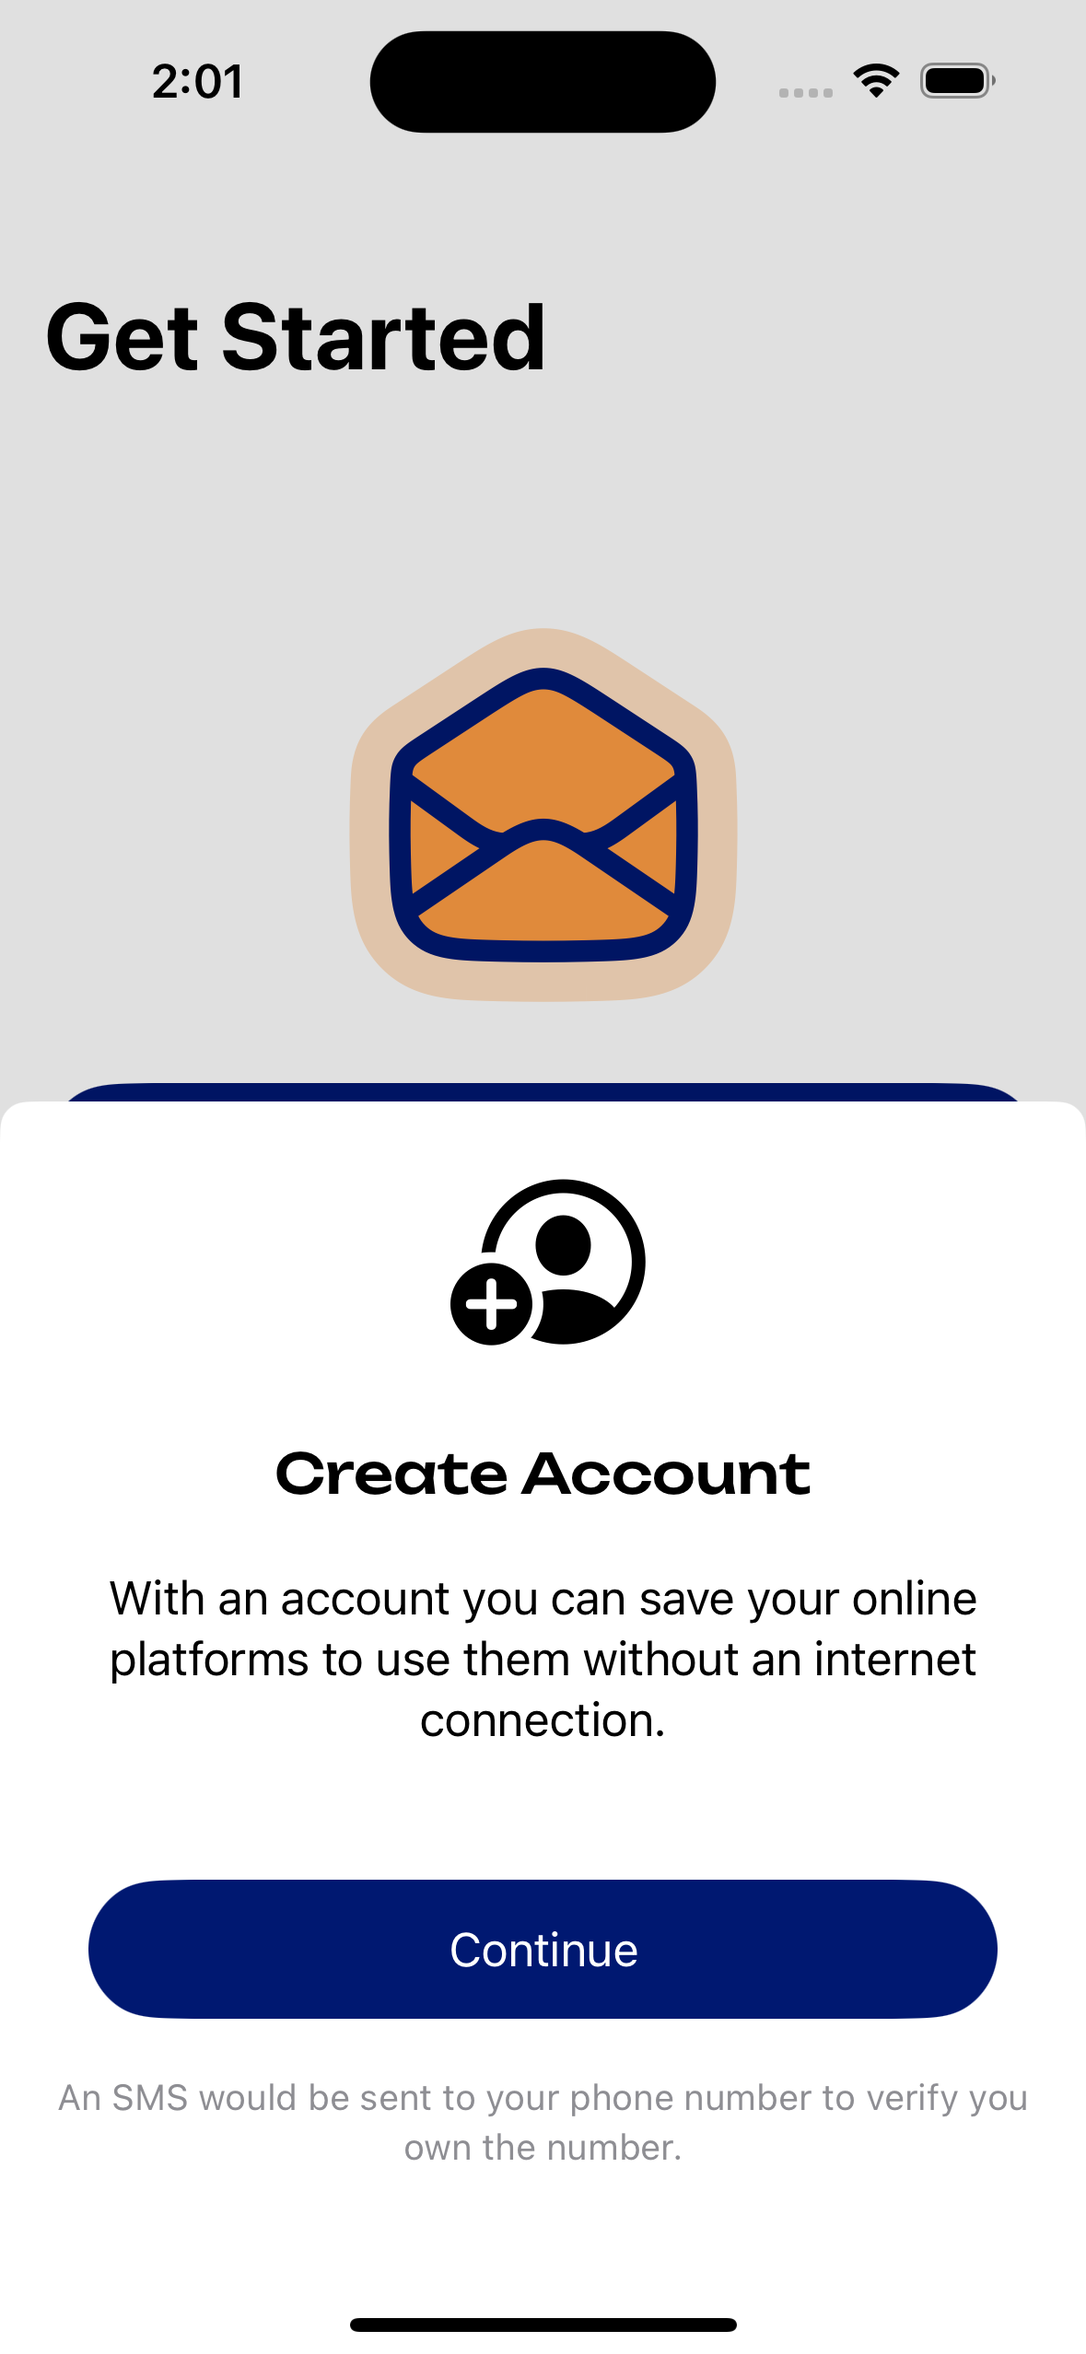
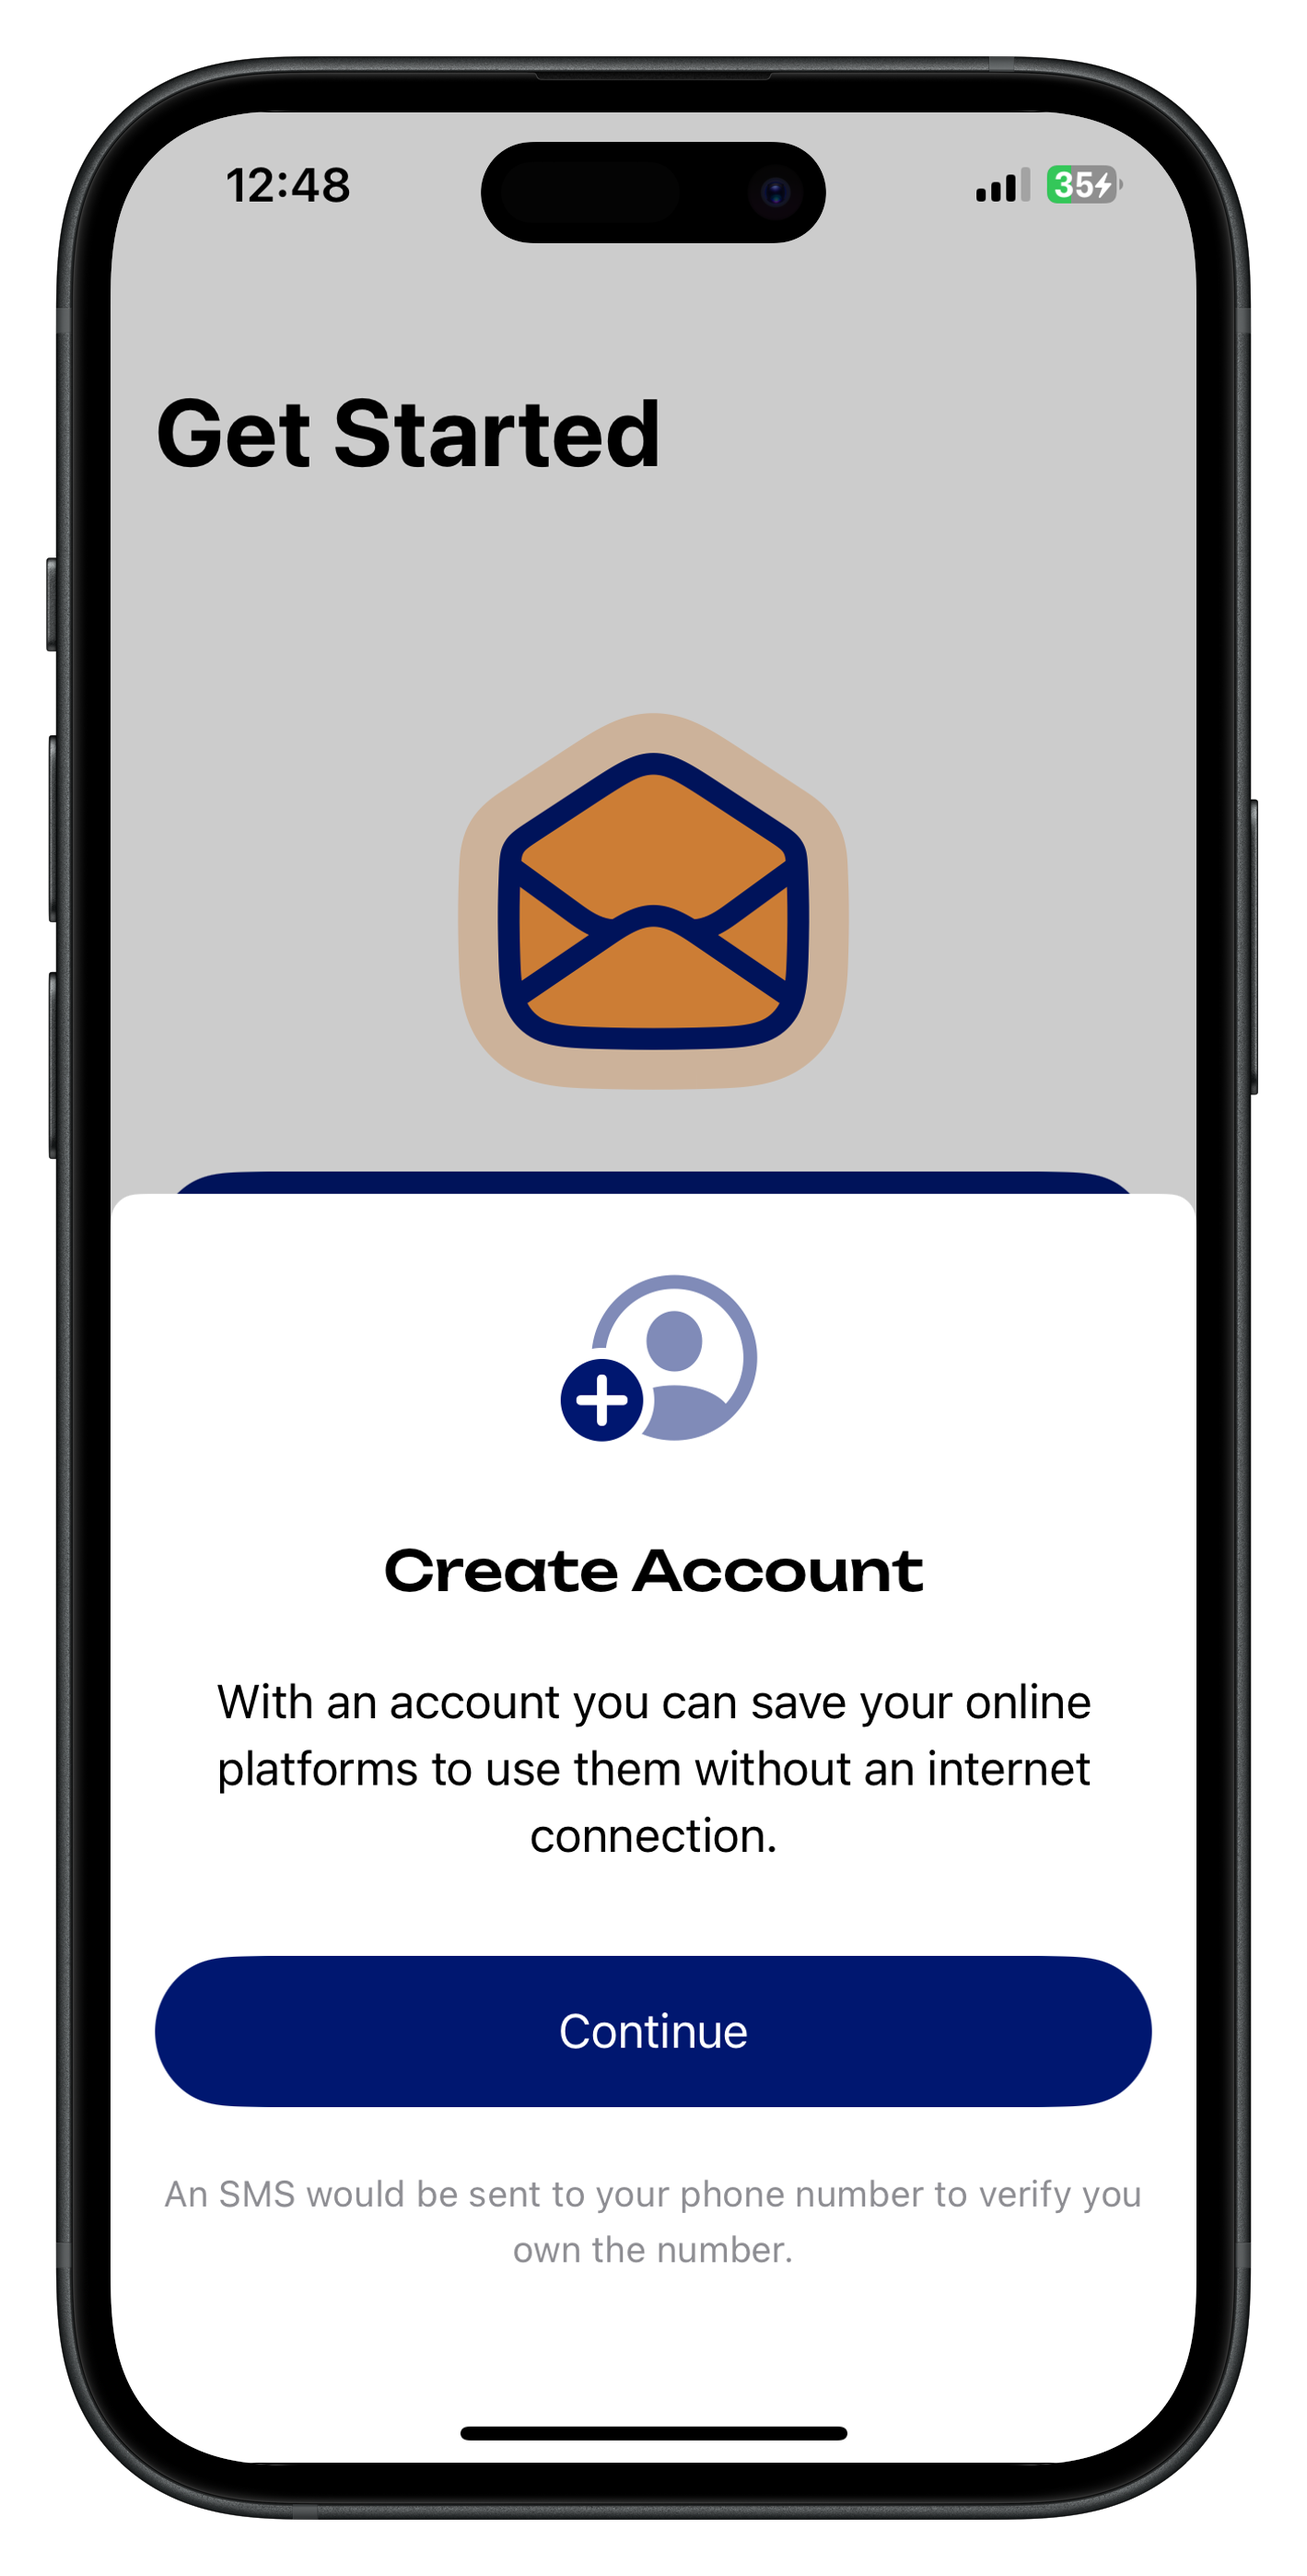
updated images to ios

diff --git a/docs/iOS Tutorial/Getting-Started-With-iOS.md b/docs/iOS Tutorial/Getting-Started-With-iOS.md
@@ -12,17 +12,16 @@ RelaySMS enables users to stay connected to their online platforms even when the
 
 
 #### Step 1: Download the App
-
-![App Store](/img/ios2.jpeg)
+<img src="/NewiOS/playstore.png" alt="GatewayAvailable" class="resized-image"/>
 
 - Download RelaySMS from the [App Store](https://apps.apple.com/us/app/relaysms/id6630382970)
 - Alternatively, you can access it on [GitHub](https://github.com/smswithoutborders/SMSwithoutBorders-Android)
+
 - **Technical Requirements:**
     - SMS-capable iPhone
     - iOS-compatible version
 
-
-There are two ways to communicate using  the app during an internet shutdown;  
+There are two ways to communicate using the app during an internet shutdown;
 
 **A.** By using your default RelaySMS account(bridges), where u can send an email without the need to sign up or save platforms
 
@@ -37,20 +36,22 @@ There are two ways to communicate using  the app during an internet shutdown;
 
 
 **Step 1: Click the "compose new message" Button**
-<img src="/Android/pick.png" alt="sign_in" class="resized-image"/>
+
+<img src="/NewiOS/click-compose.png" alt="compose" class="resized-image"/>
 
 
 **Step 2. Compose a Message**
 
-- Fill in the required fields (e.g. recipient’s email for Gmail, Click Send and RelaySMS will redirect you to the SMS app.)
-<img src="/Android/bridges.png" alt="GatewayAvailable" class="resized-image"/>
+- Fill in the required fields (e.g., recipient’s email for Gmail). Click Send, and RelaySMS will redirect you to the SMS app.
+
+<img src="/NewiOS/bridgecomposed.png" alt="sign_in" class="resized-image"/>
 
 **Step 3: Sending Messages via SMS**
 
-After composing your message, confirm and send it through your phone’s SMS service. The recipient will receive the message as if it were sent directly from the online platform.
+After composing your message, confirm and send it through your phone’s SMS app. The recipient will receive the message as from your RelaySMS email alias created with your phone number, e.g., 123456@relaysms.me 
 
-<img src="/Android/defualtMessage.png" alt="GatewayAvailable" class="resized-image"/>
-<img src="/Android/notifi.png" alt="notifi" class="resized-image"/>
+<img src="/NewiOS/bridgeEmail.png" alt="sign_in" class="resized-image"/>
+<img src="/NewiOS/bridgeMessage.png" alt="sign_in" class="resized-image"/>
 
 **Step 4: Receiving Replies**
 
@@ -59,13 +60,17 @@ After composing your message, confirm and send it through your phone’s SMS ser
 - Tap **"Decrypt"** to reveal the message.
 
 
-<img src="/Android/inbox.png" alt="GatewayAvailable" class="resized-image"/>
-<img src="/Android/decryption.png" alt="GatewayAvailable" class="resized-image"/>
+<img src="/NewiOS/inbox.png" alt="GatewayAvailable" class="resized-image"/>
+<img src="/NewiOS/decrypte.png" alt="GatewayAvailable" class="resized-image"/>
 
-<img src="/Android/decryptMessage.png" alt="GatewayAvailable" class="resized-image"/>
-<img src="/Android/Indox.png" alt="GatewayAvailable" class="resized-image"/>
+<img src="/NewiOS/decryptemessaging.png" alt="GatewayAvailable" class="resized-image"/>
+<img src="/NewiOS/decryptmessage.png" alt="GatewayAvailable" class="resized-image"/>
 
 ### B. Communicating Using Saved Platforms 
+
+**Step 1: Onboarding Screens**
+
+<img src="/NewiOS/Login-signup.png" alt="GatewayAvailable" class="resized-image"/>
 
 **Step 2: Sign Up for an Account**
 
@@ -73,59 +78,87 @@ After composing your message, confirm and send it through your phone’s SMS ser
 2. Enter the required information and proceed.
 3. An authentication PIN will be sent to your phone via SMS.
 
-**Onboarding Screens**
-
-<img src="/Android/gettingstarted.png" alt="onbording1" class="resized-image"/>
-<img src="/Android/pick.png" alt="sign_in" class="resized-image"/>
-<img src="/Android/createaccount.png" alt="sign_in2" class="resized-image"/>
+<img src="/NewiOS/Create-Account.png" alt="GatewayAvailable" class="resized-image"/>
+<img src="/NewiOS/createaccount.png" alt="GatewayAvailable" class="resized-image"/>
 
 **Step 3: Verify Your Phone Number**
-
 - Enter the verification code sent via SMS to complete your account setup.
 
-<img src="/Android/verificationcode.png" alt="verificationcode" class="resized-image"/>
+<img src="/NewiOS/verificationcode.png" alt="GatewayAvailable" class="resized-image"/>
+
 **Step 4: Log In**
 
 - If you already have an account, tap **Log In.**
 - Enter your registered phone number and password.
 - Enter the verification code received via SMS.
 
-<img src="/Android/pick.png" alt="sign_in" class="resized-image" />
-<img src="/Android/login.png" alt="login1" class="resized-image" />
-<img src="/Android/login1.png" alt="sign_in1" class="resized-image" />
-<img src="/Android/verificationcode.png" alt="verificationcode" class="resized-image"/>
+<img src="/NewiOS/sendnewmassage.png" alt="GatewayAvailable" class="resized-image"/>
 
-**Saving Platforms for Offline Messaging**
+**step 5: Saving Platforms for Offline Messaging**
 
 1. **Log in** to RelaySMS.
 2. Tap **Save Accounts** to view the list of available platforms.
 3. Select the platforms you wish to save.
 4. Ensure the platform you want to save is installed on your phone.
 
-<img src="/Android/GatewayNumber(1).png" alt="add-message" class="resized-image"/>
-<img src="/Android/addPlateform.png" alt="add-message" class="resized-image"/>
+<img src="/NewiOS/login.png" alt="add-message" class="resized-image"/>
+<img src="/NewiOS/login1.png" alt="add-message" class="resized-image"/>
+<img src="/NewiOS/verificationcode.png" alt="GatewayAvailable" class="resized-image"/>
+
+**Step 6: Choose a Gateway Client**
+
+
+a. Tap the Country tab.
+
+b. Pick a number and tap Make Default.
+
+c. You can even add your own gateway client here by tapping Add Number.
+d. Alternatively, you can select a gateway client from the list that pops up when you hit the send button after composing your message.
+
+#### 6. Send a message:
+
+- a. On the **Recent** page, tap the **Compose icon**.
+
+<img src="/NewiOS/verificationcode.png" alt="GatewayAvailable" class="resized-image"/>
+<img src="/NewiOS/recent.png" alt="GatewayAvailable" class="resized-image"/>
+<img src="/NewiOS/plateform.png" alt="GatewayAvailable" class="resized-image"/>
+
+- b. Pick a saved platform, write your message, and tap **Send**.
+
+<img src="/NewiOS/gateway.png" alt="GatewayAvailable" class="resized-image"/>
+
+- c. Confirm the gateway client, and that's it.(if the RelaySMS app is set as your default messaging app)
+
+<img src="/NewiOS/notification.png" alt="GatewayAvailable" class="resized-image"/>
+
+**NB:** If the RelaySMS app is not set as your default message app, you will be prompted to choose a default messaging app to send your message.
+Your encrypted message will appear there,  just hit **Send.**
+
+
+You’ll receive an **SMS confirmation** once your message is published to the selected platform.
 
 #### Managing Your Saved Platforms
 
 **Revoking Access to a Saved Platform**
 
-1. Open **Platforms** 
-2. Select the platform you would like to remove access from 
-3. Tap **Remove Access**
+<img src="/NewiOS/recent.png" alt="GatewayAvailable" class="resized-image"/>
 
-<img src="/Android/addPlateform.png" alt="add-message" class="resized-image"/>
-<img src="/Android/addPlateform.png" alt="add-message" class="resized-image"/>
-<img src="/Android/RevokeTelegram.png" alt="add-message" class="resized-image"/>
+
+1. Open Platforms
+<img src="/NewiOS/plateform.png" alt="GatewayAvailable" class="resized-image"/>
+
+2. Select the platform you would like to remove access from
+<img src="/NewiOS/plat.png" alt="GatewayAvailable" class="resized-image"/>
+
+3. Tap Remove Access 
+
+<img src="/NewiOS/pickrevokeaccount.png" alt="GatewayAvailable" class="resized-image"/>
+<img src="/NewiOS/clickrevoke.png" alt="GatewayAvailable" class="resized-image"/>
 
 **Deleting and Logging Out of Your Account**
 
+<img src="/NewiOS/settings.png" alt="GatewayAvailable" class="resized-image"/>s
+
 - Delete Account: Erases all saved accounts and data. You will need to create a new account to use RelaySMS again.
 - Logout: Removes all current messages but allows you to log in later.
-
-<img src="/OnDeviceToken/1.png" alt="add-message" class="resized-image"/>
-<img src="/OnDeviceToken/2.png" alt="add-message" class="resized-image"/>
-<img src="/OnDeviceToken/3.png" alt="add-message" class="resized-image"/>
-
----
-
-RelaySMS ensures seamless communication even when offline, keeping you connected no matter where you are.
+  
